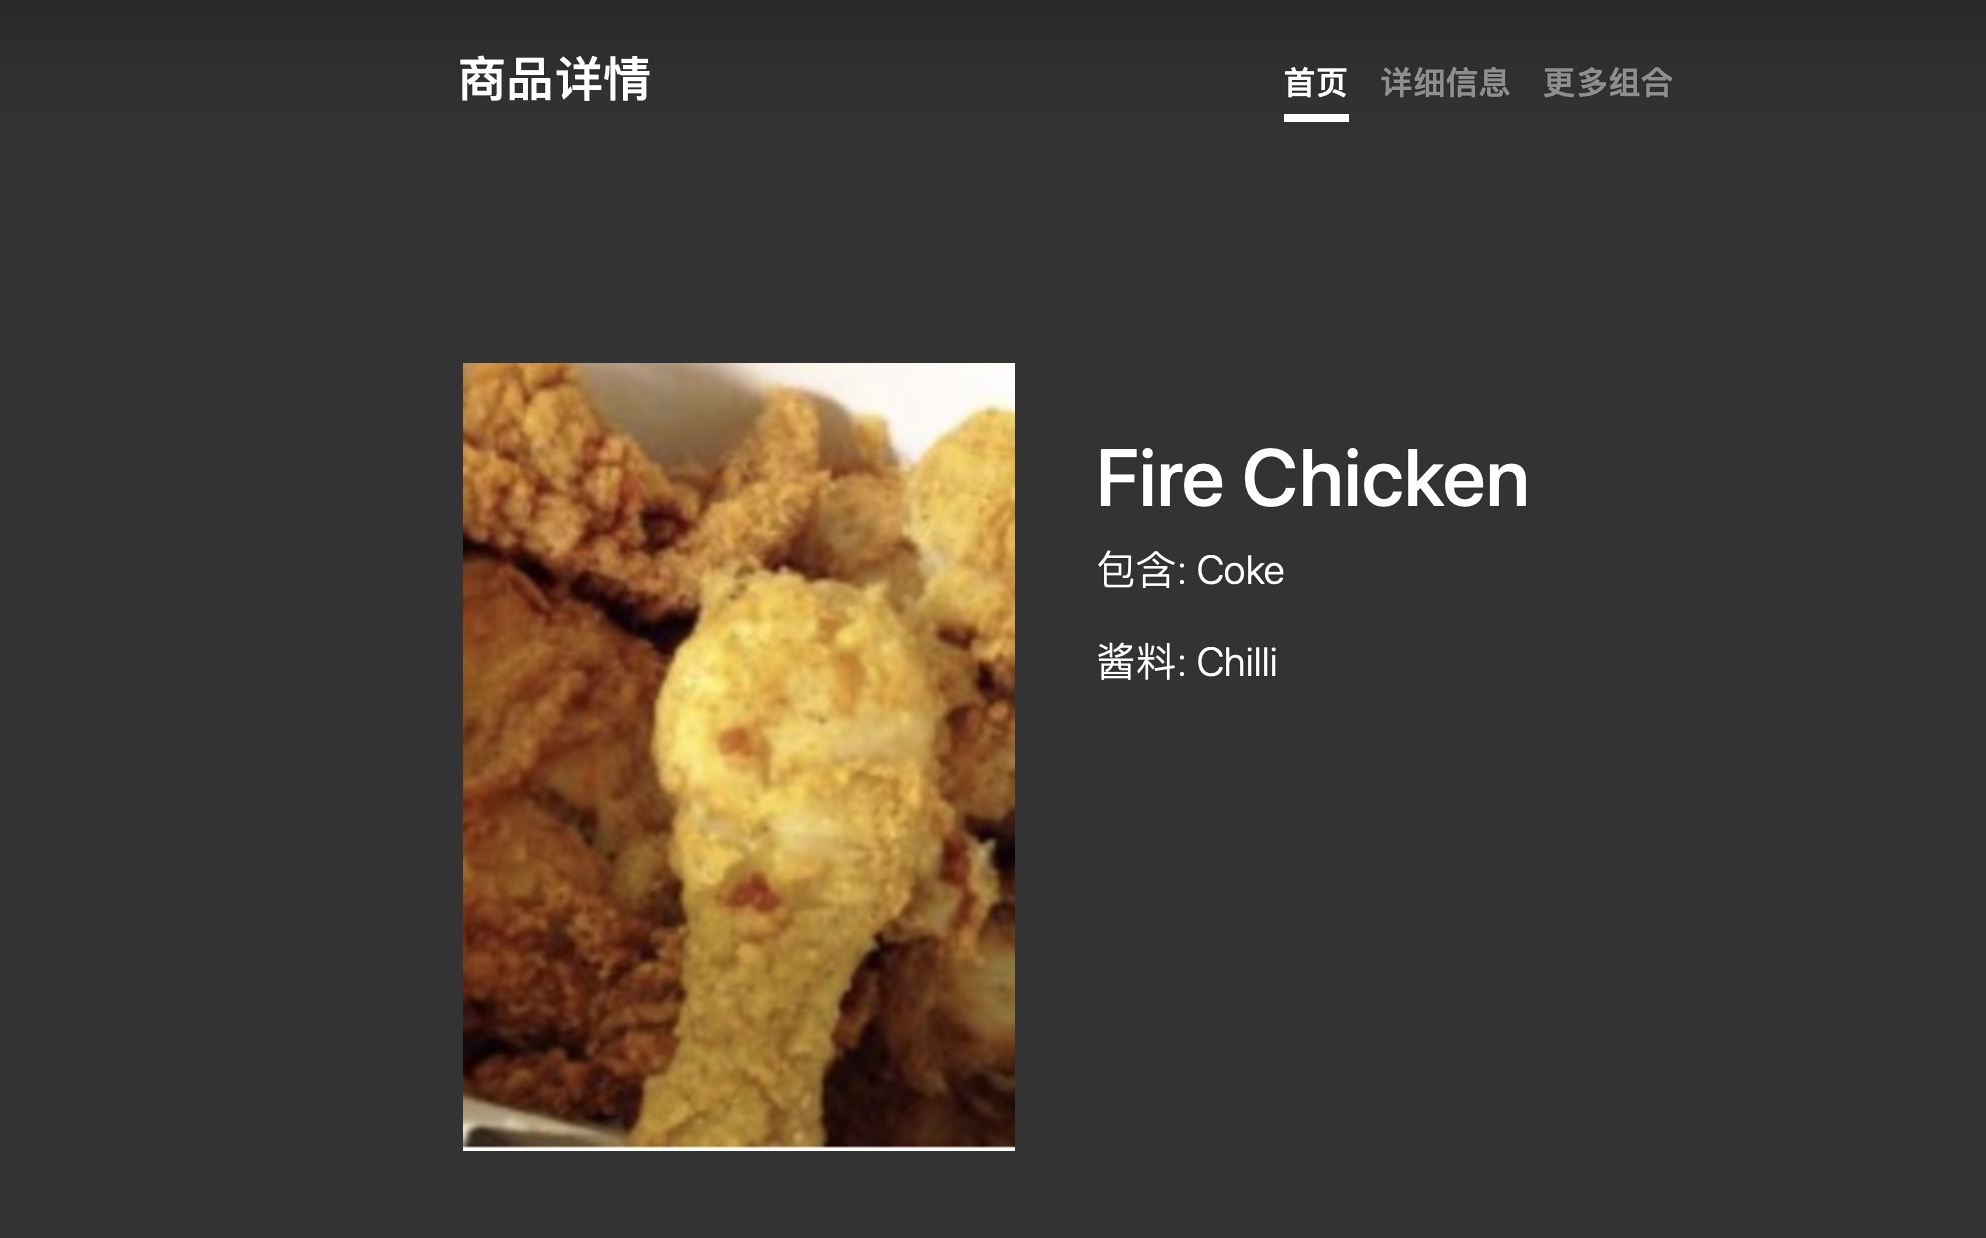
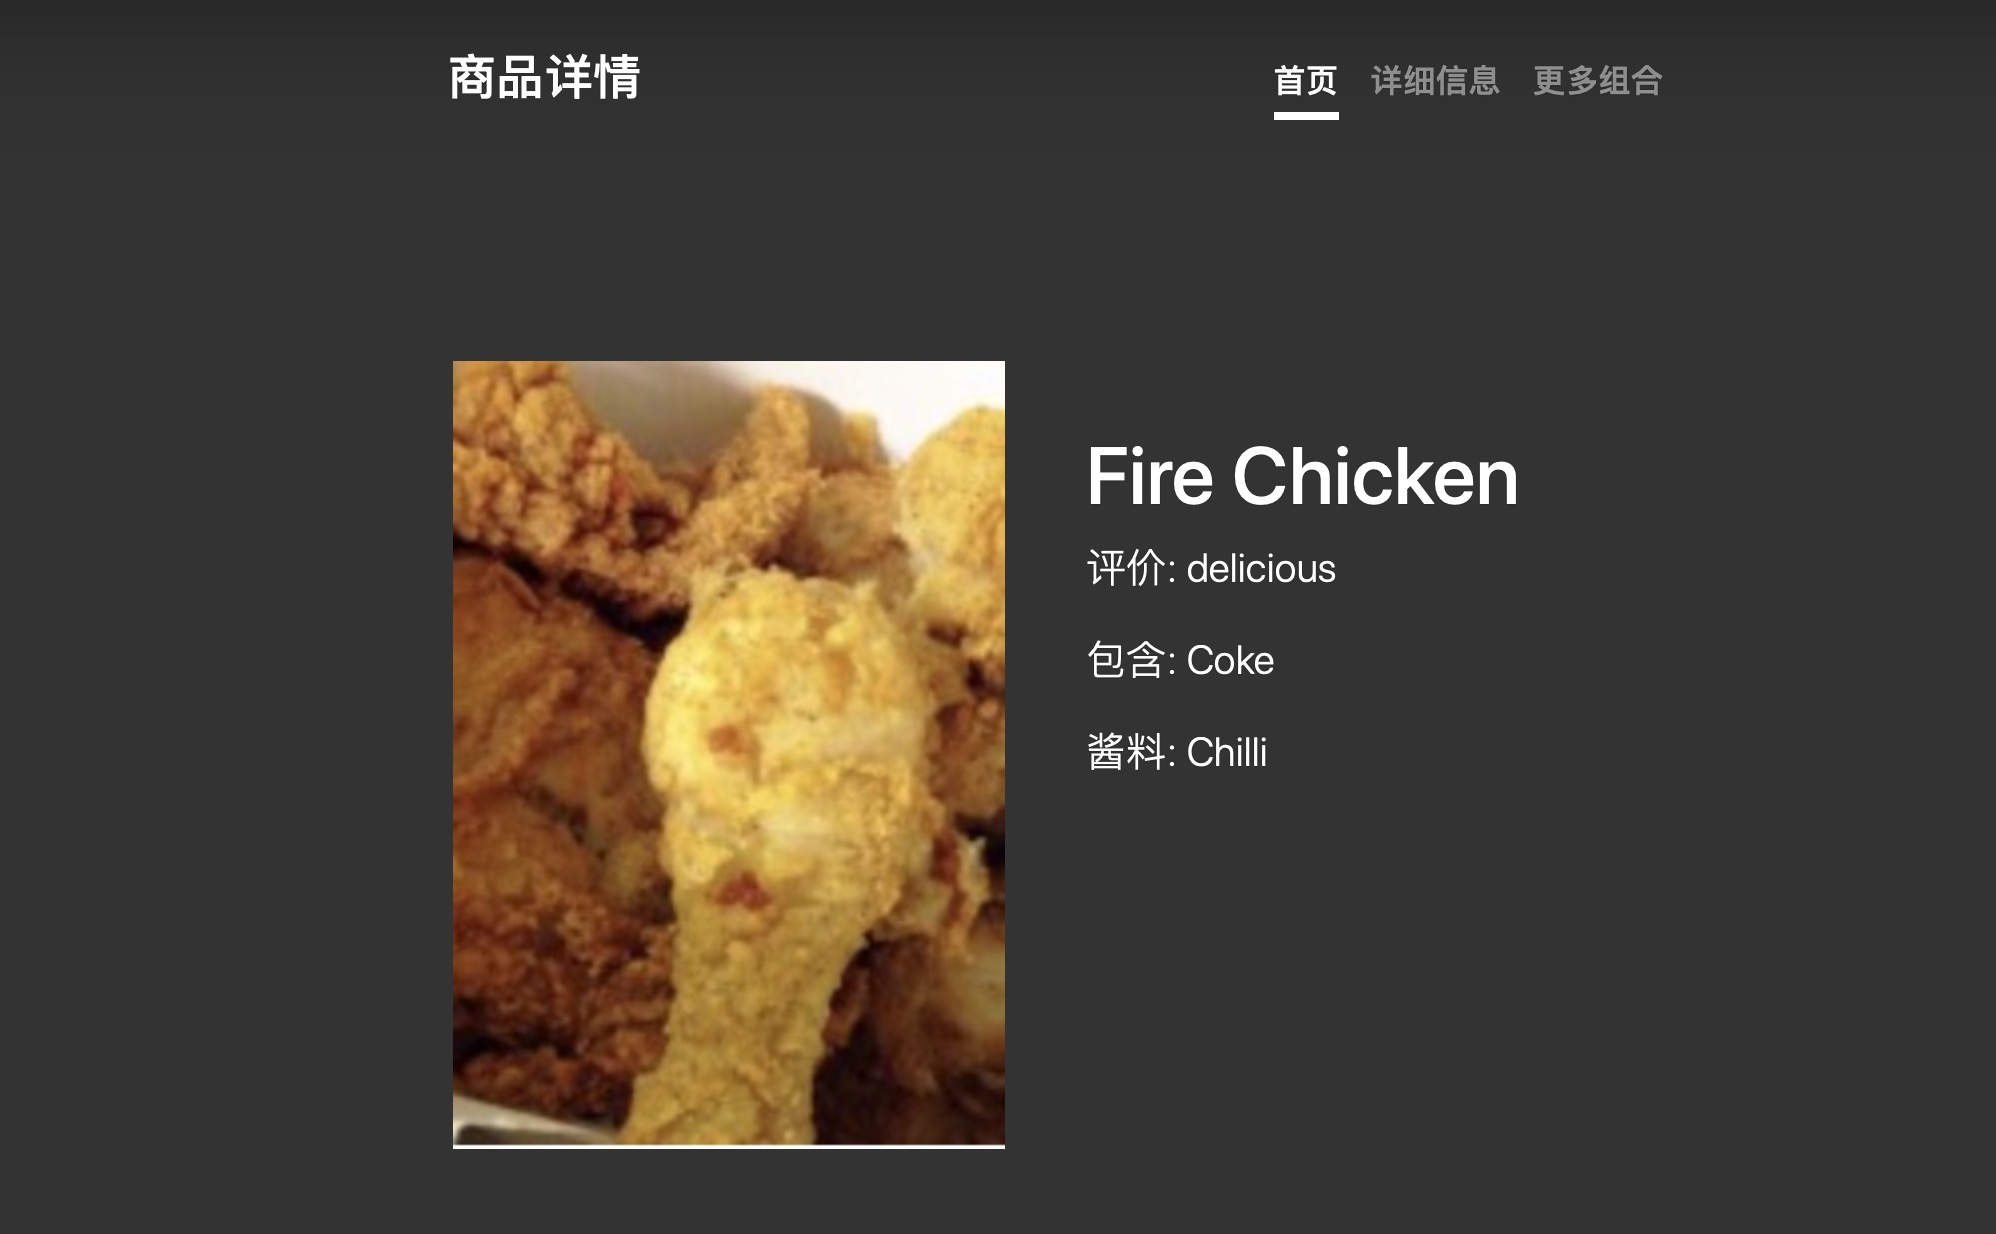
update consumer chicken files

Changed region(s): [[0.2185, 0.2771, 0.7805, 0.9546], [0.6244, 0.0308, 0.8429, 0.0924], [0.2185, 0.0308, 0.3434, 0.0924]]

diff --git a/demo-consumer-chicken/src/main/resources/templates/chicken.html b/demo-consumer-chicken/src/main/resources/templates/chicken.html
@@ -43,6 +43,7 @@
 
                     <div class="col-md-6" style="margin-top: 5%; text-align: left;">
                         <h1 class="cover-heading" th:text="${prdname}"/>
+                        <p class="lead" th:text="'评价: '+${description}"/>
                         <p class="lead" th:text="'包含: '+${addon}"/>
                         <p class="lead" th:text="'酱料: '+${sauce}"/>
                     </div>
